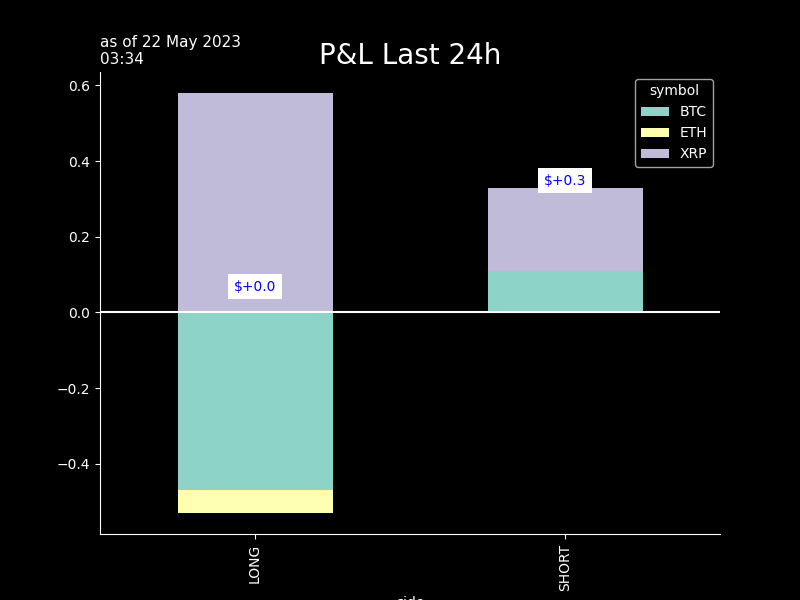
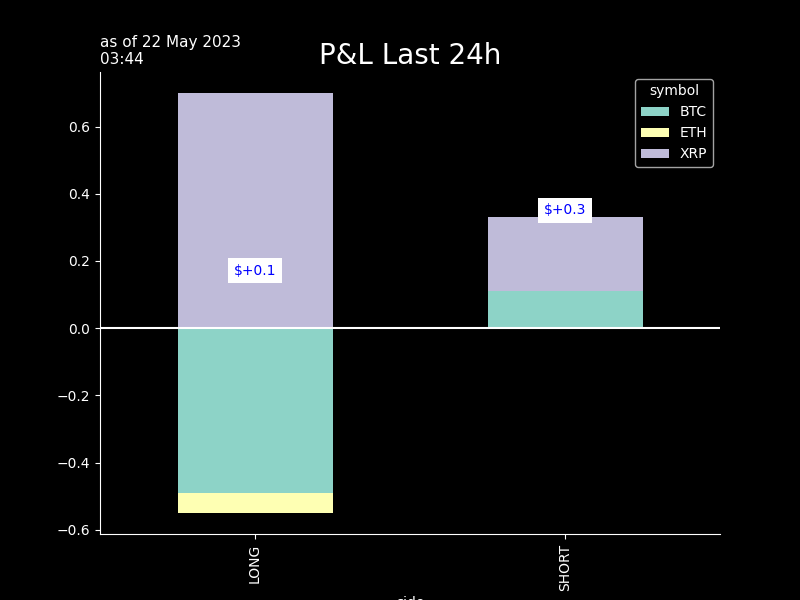
seb_commit

diff --git a/crypto/graphs/bt_trades_book.htmltrade_trades_book.html b/crypto/graphs/bt_trades_book.htmltrade_trades_book.html
@@ -38,37 +38,37 @@
   <tbody>
     <tr>
       <th>BTCUSDT</th>
-      <td>26646.2000</td>
-      <td>2023-05-22 02:34:33</td>
-      <td>0.002</td>
-      <td>$53.3</td>
+      <td>26636.4500</td>
+      <td>2023-05-22 02:44:05.500</td>
+      <td>-0.002</td>
+      <td>$-53.3</td>
       <td>$0.01</td>
       <td>2.0</td>
-      <td>0.1</td>
-      <td>26647.15000</td>
-      <td>2023-05-22 03:32</td>
-      <td>0.0</td>
-      <td>0.0</td>
-      <td>26641.8</td>
+      <td>-0.0</td>
+      <td>26648.95000</td>
+      <td>2023-05-22 03:41</td>
+      <td>-0.0</td>
+      <td>-4.0</td>
+      <td>26643.1</td>
       <td>-0.0</td>
       <td>-2.0</td>
     </tr>
     <tr>
       <th>XRPUSDT</th>
-      <td>0.4563</td>
-      <td>2023-05-22 02:34:25</td>
-      <td>170.400</td>
-      <td>$77.8</td>
-      <td>$0.02</td>
+      <td>0.4577</td>
+      <td>2023-05-22 02:41:50.000</td>
+      <td>-85.200</td>
+      <td>$-39.0</td>
+      <td>$0.01</td>
       <td>2.0</td>
-      <td>0.2</td>
-      <td>0.45685</td>
-      <td>2023-05-22 03:32</td>
       <td>0.1</td>
-      <td>12.0</td>
-      <td>.4563</td>
+      <td>0.45745</td>
+      <td>2023-05-22 03:41</td>
       <td>0.0</td>
+      <td>5.0</td>
+      <td>.4573</td>
       <td>0.0</td>
+      <td>8.0</td>
     </tr>
   </tbody>
 </table>

diff --git a/crypto/graphs/bt_trades_recap.htmltrade_trades_recap.html b/crypto/graphs/bt_trades_recap.htmltrade_trades_recap.html
@@ -9,32 +9,32 @@
   <tbody>
     <tr>
       <th>as of</th>
-      <td>22May 02:34&gt;&gt;02:34</td>
+      <td>22May 02:41&gt;&gt;02:44</td>
       <td>#trades: 2</td>
     </tr>
     <tr>
       <th>trade net</th>
-      <td>+131.0</td>
-      <td>+42.2%</td>
+      <td>-92.0</td>
+      <td>-29.6%</td>
     </tr>
     <tr>
       <th>trade gross</th>
-      <td>+131.0</td>
-      <td>+42.2%</td>
+      <td>+92.0</td>
+      <td>+29.6%</td>
     </tr>
     <tr>
       <th>BUY</th>
-      <td>+131.0</td>
-      <td>+42.2%</td>
-    </tr>
-    <tr>
-      <th>SELL</th>
       <td>+0.0</td>
       <td>+0.0%</td>
     </tr>
     <tr>
+      <th>SELL</th>
+      <td>-92.0</td>
+      <td>-29.6%</td>
+    </tr>
+    <tr>
       <th>fees</th>
-      <td>$ 0.026</td>
+      <td>$ 0.018</td>
       <td>2.0bp</td>
     </tr>
   </tbody>

diff --git a/crypto/graphs/bt_trades_pnlD_recap.htmltrade_trades_pnlD_recap.html b/crypto/graphs/bt_trades_pnlD_recap.htmltrade_trades_pnlD_recap.html
@@ -1,7 +1,7 @@
 <table border="1" class="dataframe">
   <thead>
     <tr style="text-align: right;">
-      <th>22 May 03:34</th>
+      <th>22 May 03:44</th>
       <th>realizedPnl</th>
       <th>PnLvsArrival</th>
       <th>PnLvsLast</th>
@@ -10,21 +10,21 @@
   <tbody>
     <tr>
       <th>in$</th>
-      <td>0.3</td>
       <td>0.1</td>
-      <td>-0.0</td>
+      <td>0.0</td>
+      <td>0.0</td>
     </tr>
     <tr>
-      <th>in bp 131 traded</th>
-      <td>25 bp</td>
-      <td>7 bp</td>
-      <td>-1 bp</td>
+      <th>in bp 92 traded</th>
+      <td>12 bp</td>
+      <td>0 bp</td>
+      <td>2 bp</td>
     </tr>
     <tr>
       <th>in bp 310 AUMs</th>
-      <td>11 bp</td>
-      <td>3 bp</td>
-      <td>-0 bp</td>
+      <td>4 bp</td>
+      <td>0 bp</td>
+      <td>1 bp</td>
     </tr>
   </tbody>
 </table>
